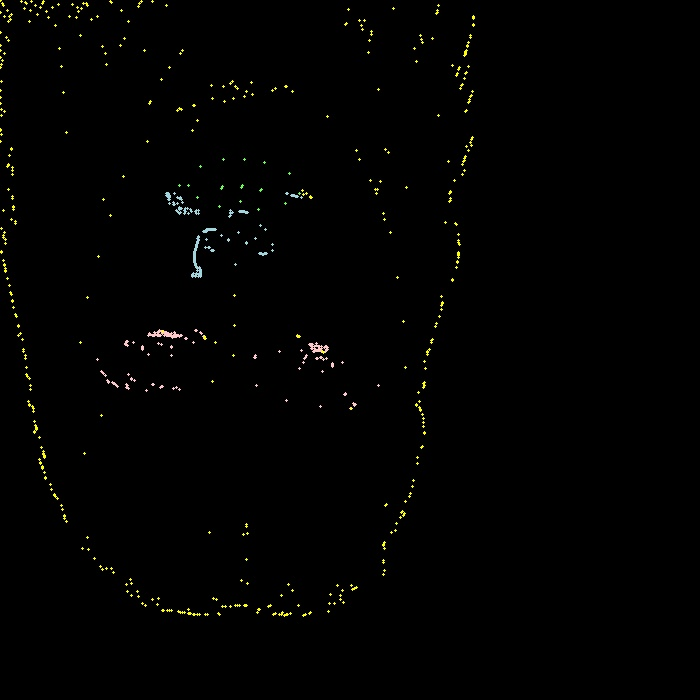
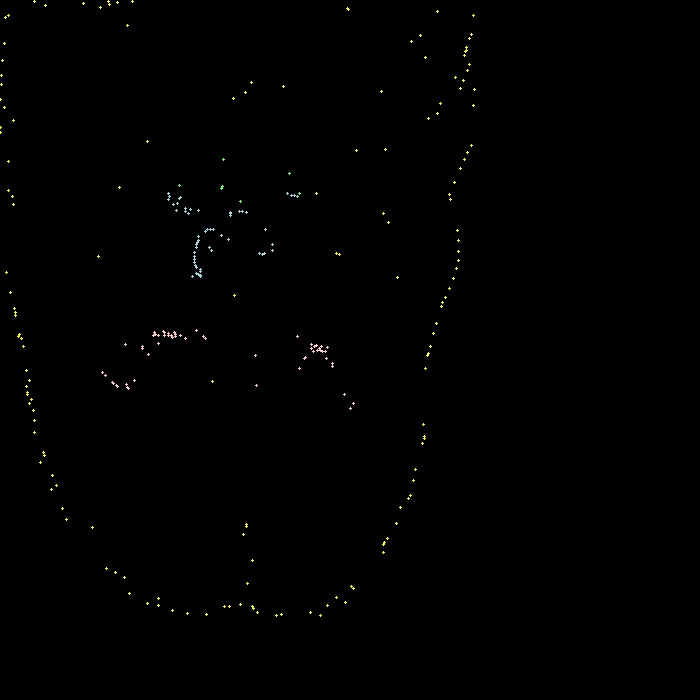
Final Code Submission

diff --git a/src/image_processing_pkg/src/image_processing_node.cpp b/src/image_processing_pkg/src/image_processing_node.cpp
@@ -51,22 +51,16 @@ private:
         response->message = "Raw goals triggered successfully!";
     }
 
+    // Publish the Point message
     void publish_points(){
-        // Publish the Point message
         for(size_t i=0; i != transposedCoordinates_.size(); i++){
             auto msg = geometry_msgs::msg::Point();
             msg.x = transposedCoordinates_.at(i).at(0);
-            msg.y = transposedCoordinates_.at(i).at(1);;
-            msg.z = 0;
+            msg.y = transposedCoordinates_.at(i).at(1);
+            msg.z = transposedCoordinates_.at(i).at(2);
             publisher_->publish(msg);
             std::this_thread::sleep_for(std::chrono::milliseconds(10));
         }
-        auto msg = geometry_msgs::msg::Point();
-        msg.x = 0;
-        msg.y = 0;
-        msg.z = -999;
-        publisher_->publish(msg);
-        std::this_thread::sleep_for(std::chrono::milliseconds(10));
     }
 
     // Function to remove overly dense edges based on neighborhood analysis
@@ -344,24 +338,30 @@ private:
     }
 
     void transposeAndInsert(const std::vector<std::vector<int>>& source, int label, int newX, int newY, int newWidth, int newHeight, int faceBottomY) {
+        int counter = 0;
         for (const auto& p : source) {
+            if (counter % 3 != 0) { // Skip 2, process 1
+                counter++;
+                continue;
+            }
+            counter++;
+    
             int transX, transY;
-
+    
             if (p[0] >= newX && p[0] <= newX + newWidth && p[1] >= newY && p[1] <= newY + newHeight) {
                 transX = p[0] - newX;
-                transY = (faceBottomY - newY) - (p[1] - newY); //faceBottomY - p[1]; // Flip vertically
+                transY = (faceBottomY - newY) - (p[1] - newY); // Flip vertically
                 transposedCoordinates_.push_back({transX, transY, label});
             }
-            
+    
             if (p[0] == 0 && p[1] == 0) {
-                transX = 0; // UPDATE
-                transY = 0; // UPDATE
-                transposedCoordinates_.push_back({0, 0, -999}); // label replaced by -999
+                transposedCoordinates_.push_back({0, 0, -999});
             }
         }
+    
         // Add delimiter after each group
-        transposedCoordinates_.push_back({0, 0, label});
-        }
+        transposedCoordinates_.push_back({0, 0, -999});
+    }
 
     // int PointPublisher::image_processing(int argc, char * argv[], image) {
     int image_processing(cv::Mat image){
@@ -391,11 +391,11 @@ private:
             h2_ = h;
 
             if (currentRatio > TARGET_RATIO) {
-            // too wide → shrink width of face rectangle
-            w2 = int(std::round(h * TARGET_RATIO));
+                // too wide → shrink width of face rectangle
+                w2 = int(std::round(h * TARGET_RATIO));
             } else {
-            // too tall → shrink height of face rectangle
-            h2_ = int(std::round(w / TARGET_RATIO));
+                // too tall → shrink height of face rectangle
+                h2_ = int(std::round(w / TARGET_RATIO));
             }
 
             // Center the trimmed/amended rect inside the expanded rectangle
@@ -415,19 +415,12 @@ private:
             double targetRatio = 145.0 / 187.0;
             double resultRatio = static_cast<double>(w2) / static_cast<double>(h2_);
 
-            // OUTPUT
-            std::cout << "Target ratio is 145w:187H. 145/187 = " << targetRatio << std::endl;
-            std::cout << "Result ratio is " << resultRatio << std::endl;
-            std::cout << "Target rato - result ratio = " << targetRatio - resultRatio << std::endl;
-
             // Extract face region of interest for processing
             cv::Mat faceROIadj = gray_(cv::Rect(newX, newY, newWidth, newHeight));
 
             // Extract lower half of face region to use for more accurate mouth detection
             cv::Mat lowerFace = gray_(cv::Rect(x, y_ + h2_/2, w2, h2_/2)); 
             cv::Mat upperFace = gray_(cv::Rect(x, y_+h2_/4, w2, h2_/2));
-            // cv::rectangle(output_, cv::Rect(x, y_+h2_/4, w2, h2_ / 2), cv::Scalar(255, 0, 0), 2);
-            // cv::rectangle(image_, cv::Rect(x, y_+h2_/4, w2, h2_ / 2), cv::Scalar(255, 0, 0), 2);
 
             // initilaise matrix for face edges where the resultant edge pixels will be stored
             cv::Mat faceEdges;

diff --git a/src/selfie_cpp_pkg/src/path_planning_node.cpp b/src/selfie_cpp_pkg/src/path_planning_node.cpp
@@ -33,7 +33,10 @@ class PathPlanningNode: public rclcpp::Node
 
         void callbackRawGoals(const geometry_msgs::msg::Point::SharedPtr msg)
         {
-            RCLCPP_INFO(this->get_logger(), "Point received: x=%.2f, y=%.2f, z=%.2f", msg->x, msg->y, msg->z);
+            //RCLCPP_INFO(this->get_logger(), "Point received: x=%.2f, y=%.2f, z=%.2f", msg->x, msg->y, msg->z);
+            if(msg->x == 0 && msg->y == 0 && msg->z == 0 ){RCLCPP_INFO(this->get_logger(), "AHHHHHHHHHHHHHHHHHHHHHHHHHHHH Point received: x=%.2f, y=%.2f, z=%.2f", msg->x, msg->y, msg->z);}
+            if(msg->x == 0 && msg->y == 0 && msg->z == -250 ){RCLCPP_INFO(this->get_logger(), "AHHHHHHHHHHHHHHHHHHHHHHHHHHHH Point received: x=%.2f, y=%.2f, z=%.2f", msg->x, msg->y, msg->z);}
+            //if(msg->z == -){RCLCPP_INFO(this->get_logger(), "AHHHHHHHHHHHHHHHHHHHHHHHHHHHH Point received: x=%.2f, y=%.2f, z=%.2f", msg->x, msg->y, msg->z);}
             if(msg->z == -999)
             {
                 isSameSegemnt = false;

diff --git a/src/selfie_cpp_pkg/src/ur3_driver_node.cpp b/src/selfie_cpp_pkg/src/ur3_driver_node.cpp
@@ -42,7 +42,7 @@ class DriverNode: public rclcpp::Node
 
       void callbackOrderedPoint(const geometry_msgs::msg::Point::SharedPtr msg)
       {
-        RCLCPP_INFO(this->get_logger(), "Point received: x=%.2f, y=%.2f, z=%.2f", msg->x, msg->y, msg->z);
+        //RCLCPP_INFO(this->get_logger(), "Point received: x=%.2f, y=%.2f, z=%.2f", msg->x, msg->y, msg->z);
         if(msg->z == -999)
         {
           isSameSegemnt = false;
@@ -75,9 +75,9 @@ class DriverNode: public rclcpp::Node
         marker.pose.orientation.w = 1.0;
         marker.lifetime = rclcpp::Duration::from_seconds(0);
 
-        marker.scale.x = 0.02;
-        marker.scale.y = 0.02;
-        marker.scale.z = 0.02;
+        marker.scale.x = 0.005;
+        marker.scale.y = 0.005;
+        marker.scale.z = 0.005;
 
         marker.color.r = 0.0f;
         marker.color.g = 1.0f;

diff --git a/src/image_processing_pkg/src/image_test_eyes.cpp b/src/image_processing_pkg/src/image_test_eyes.cpp
@@ -440,7 +440,7 @@ void PointPublisher::transposeAndInsert(const std::vector<std::vector<int>>& sou
     }
 
     // Add delimiter after each group
-    transposedCoordinates_.push_back({0, 0, label});
+    transposedCoordinates_.push_back({0, 0, -999});
 }
 
 
